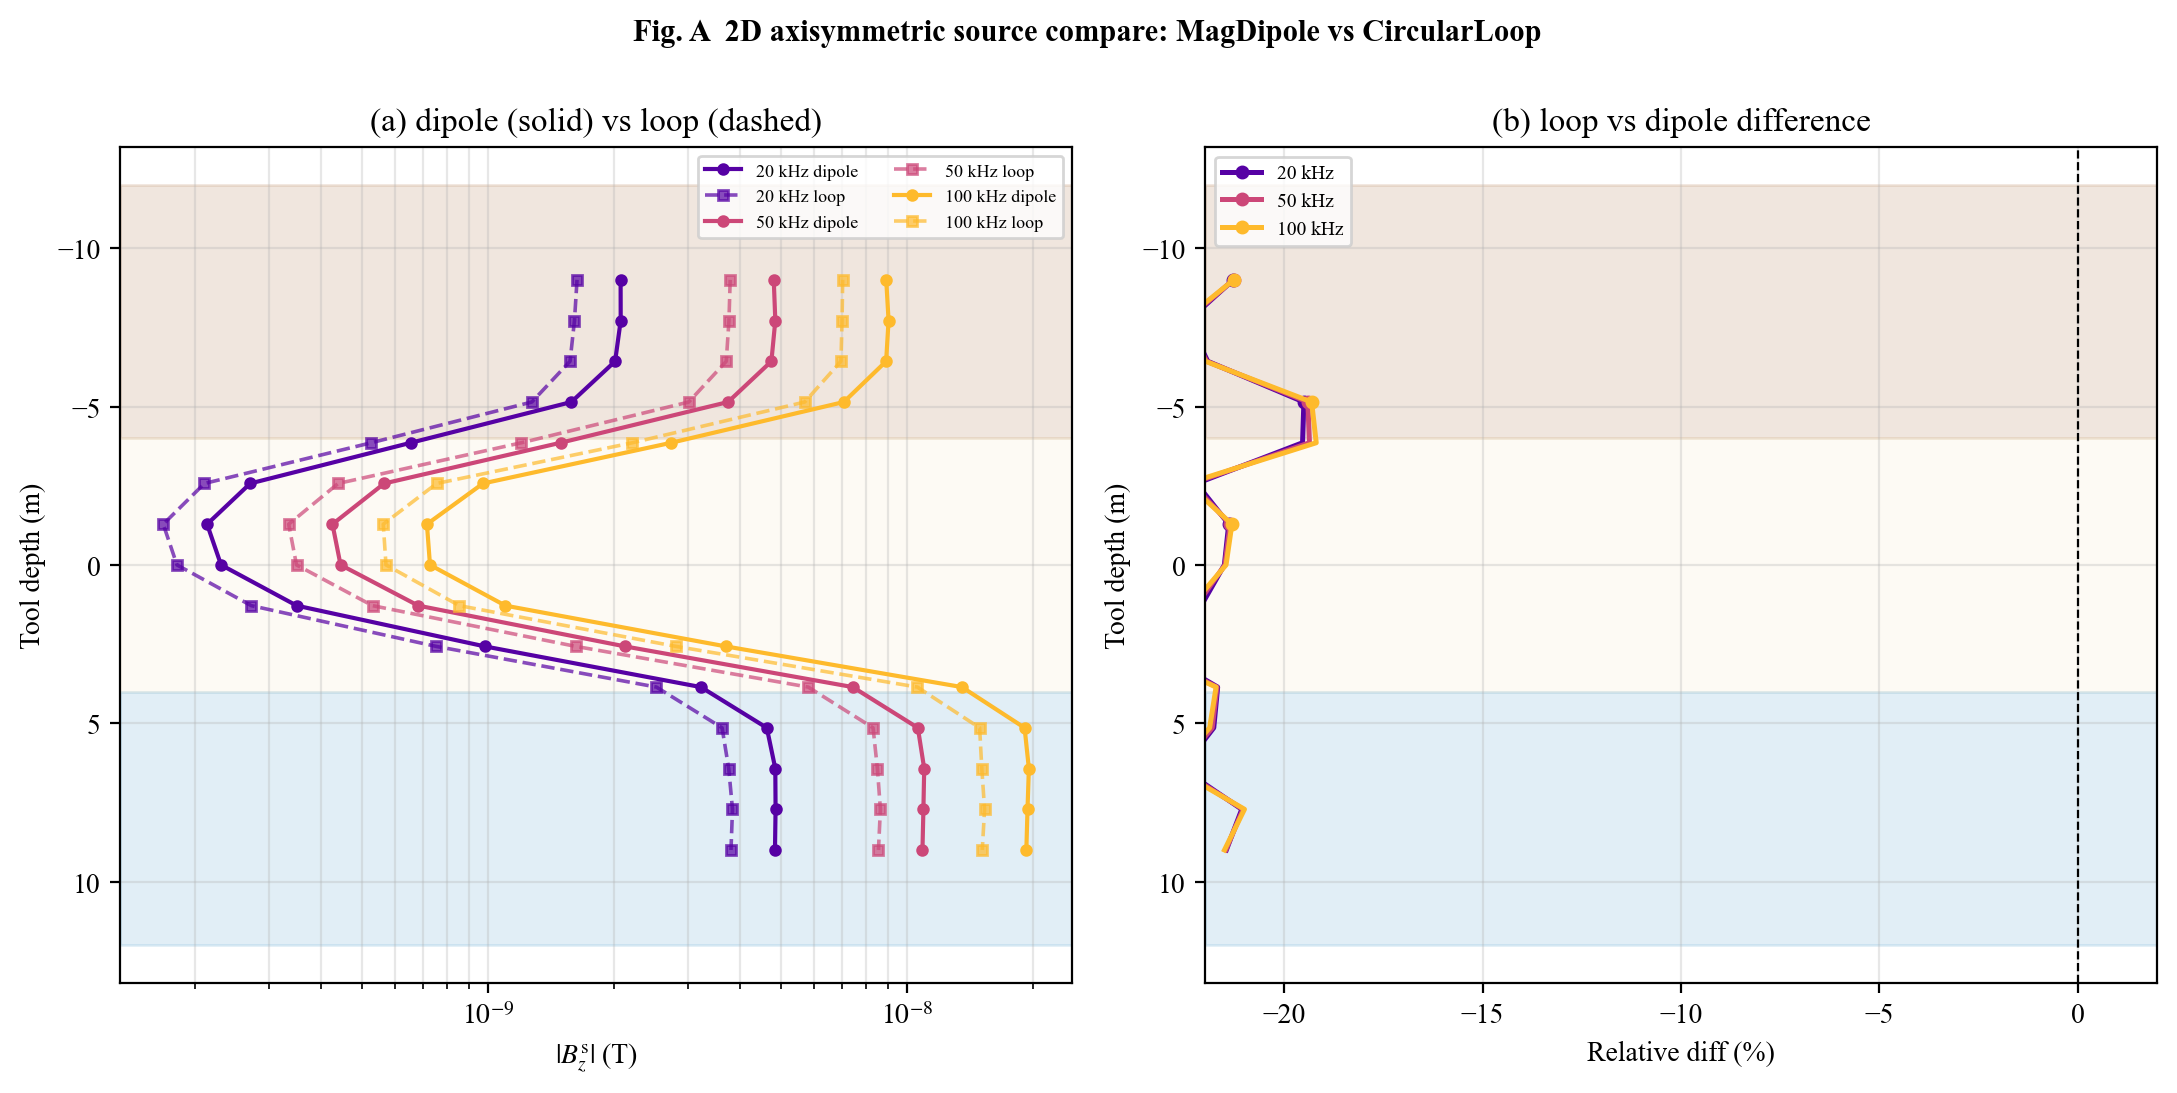
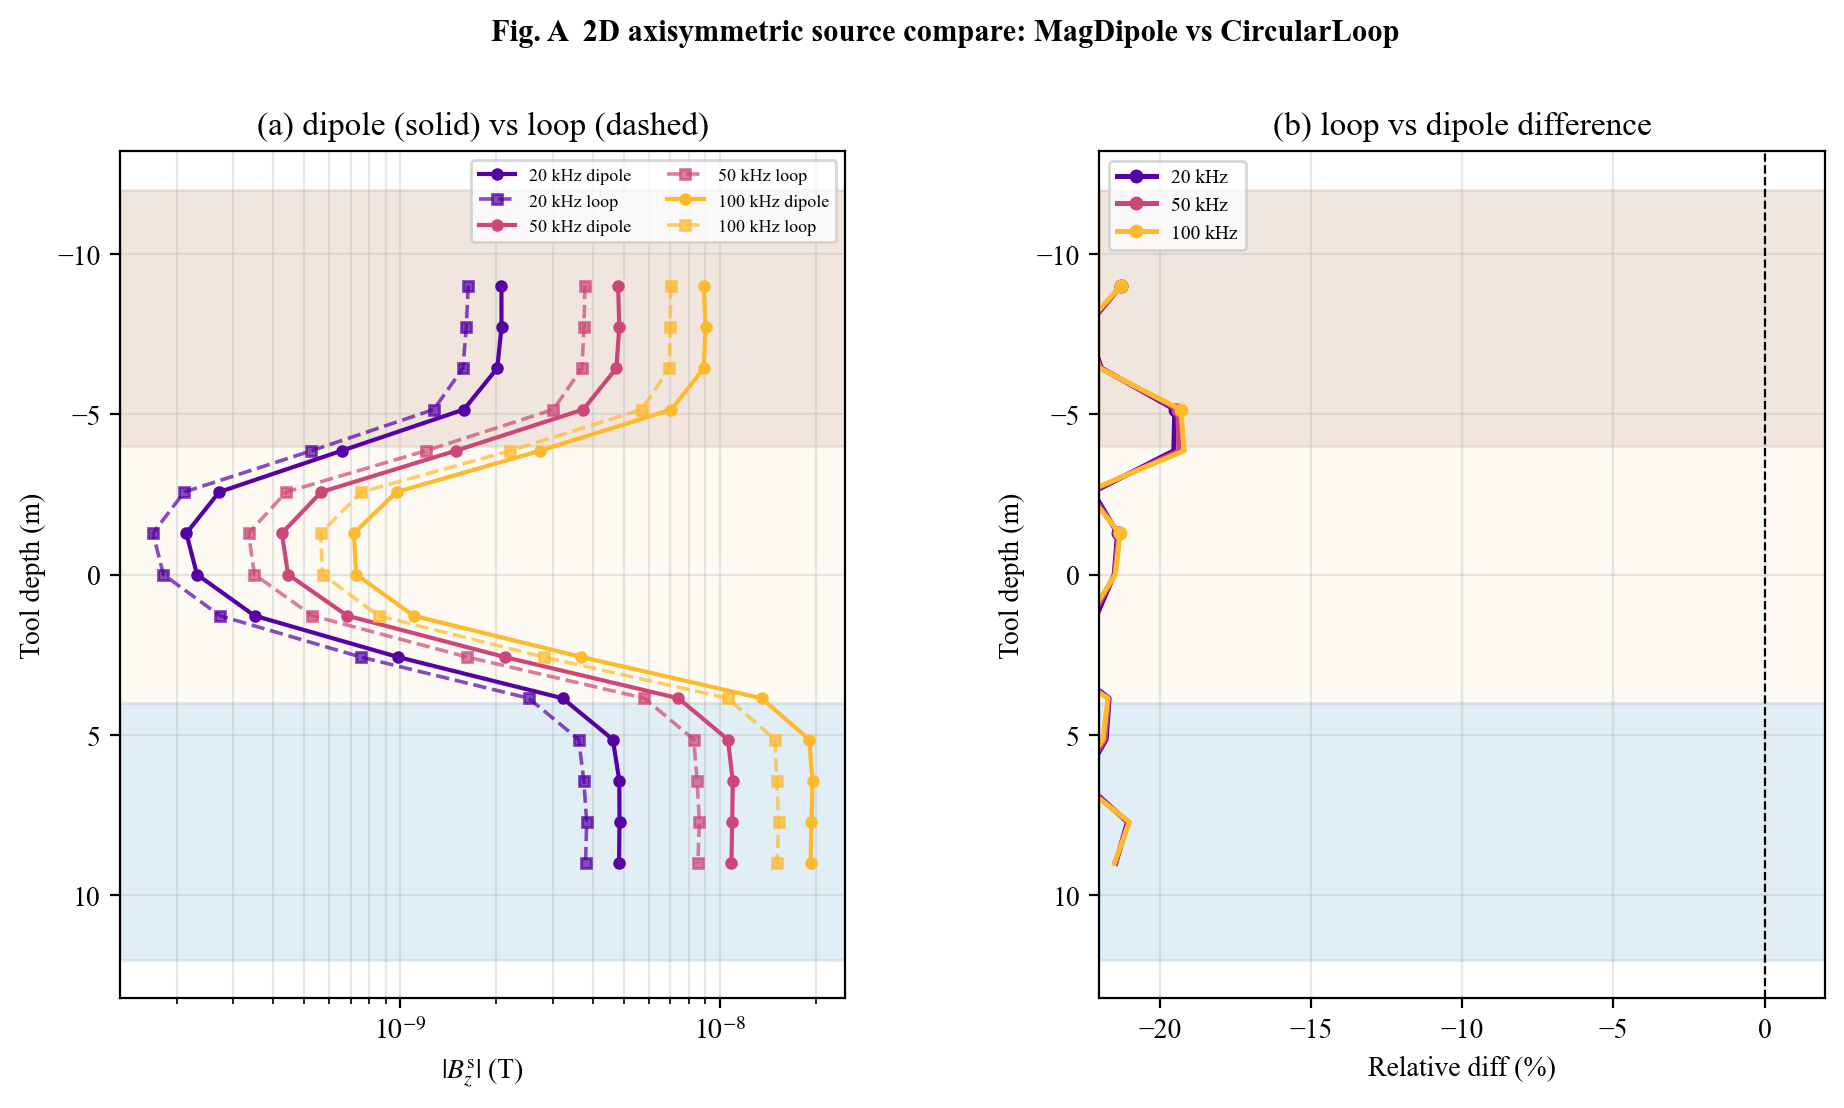
style: increase subplot spacing in Fig.A

diff --git a/examples/vertical_well_advanced.py b/examples/vertical_well_advanced.py
@@ -140,7 +140,7 @@ def fig_A_source_compare(mesh):
     fig.suptitle(T("图 A  2D 轴对称源类型对比：磁偶极子 vs 有限回线 CircularLoop",
                    "Fig. A  2D axisymmetric source compare: MagDipole vs CircularLoop"),
                  fontsize=11, fontweight="bold", y=1.0)
-    fig.tight_layout()
+    fig.subplots_adjust(wspace=0.35)  # 增加子图间距
     save_figure(fig, FIG_DIR / "A_source_compare.png", dpi=200)
 
 
